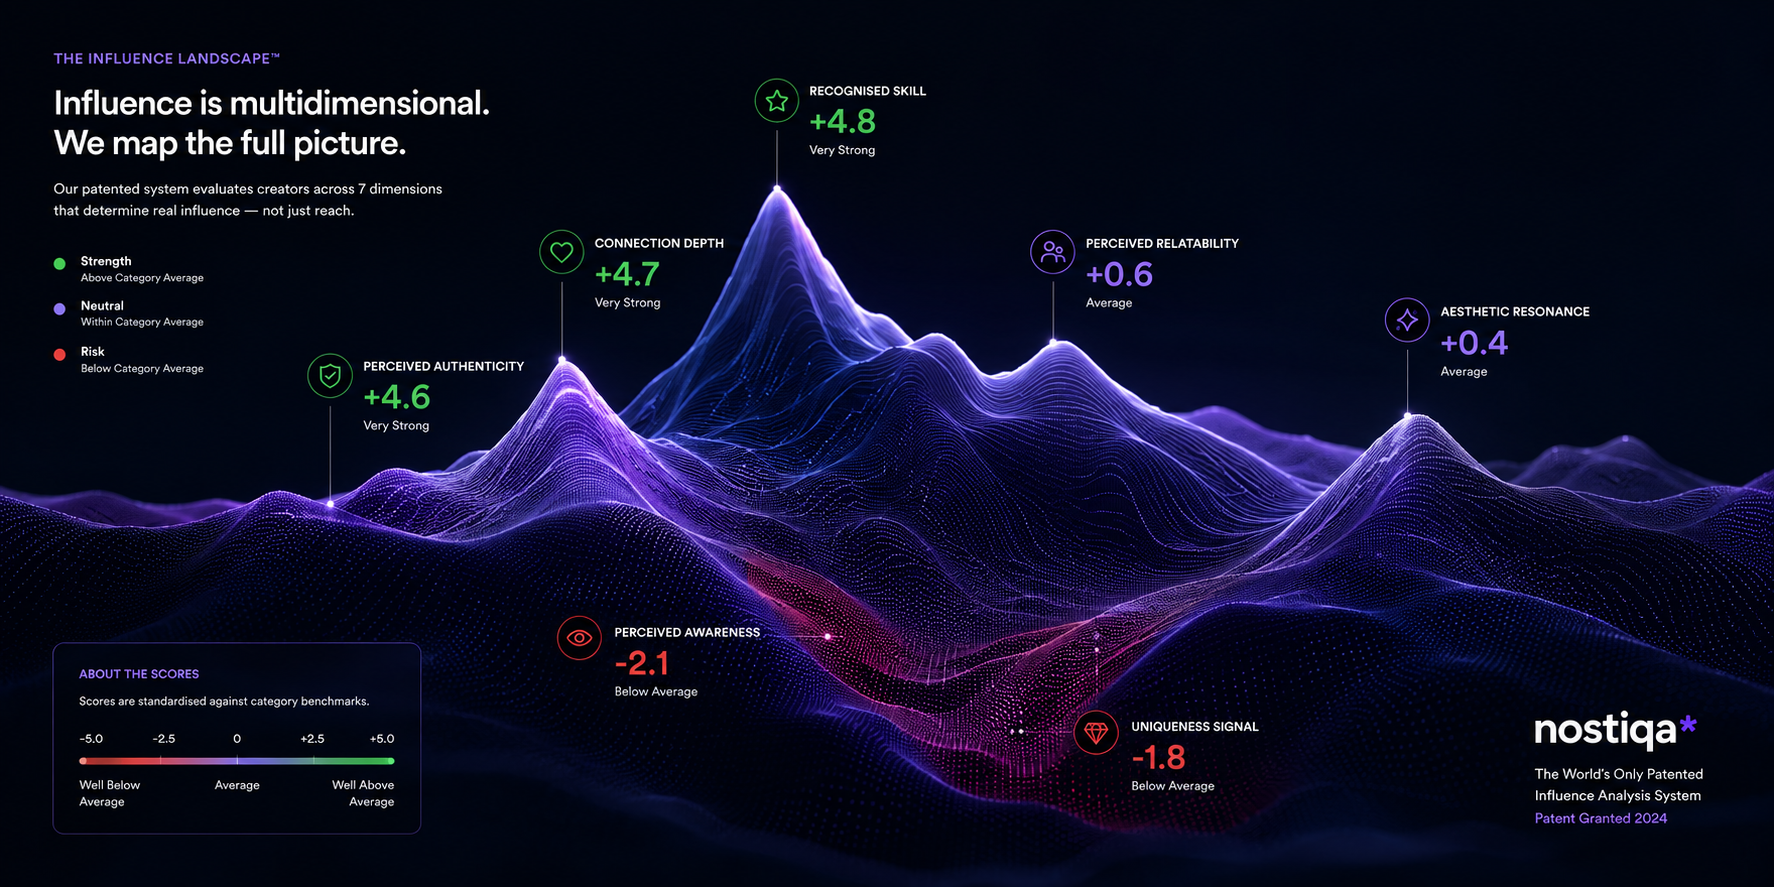
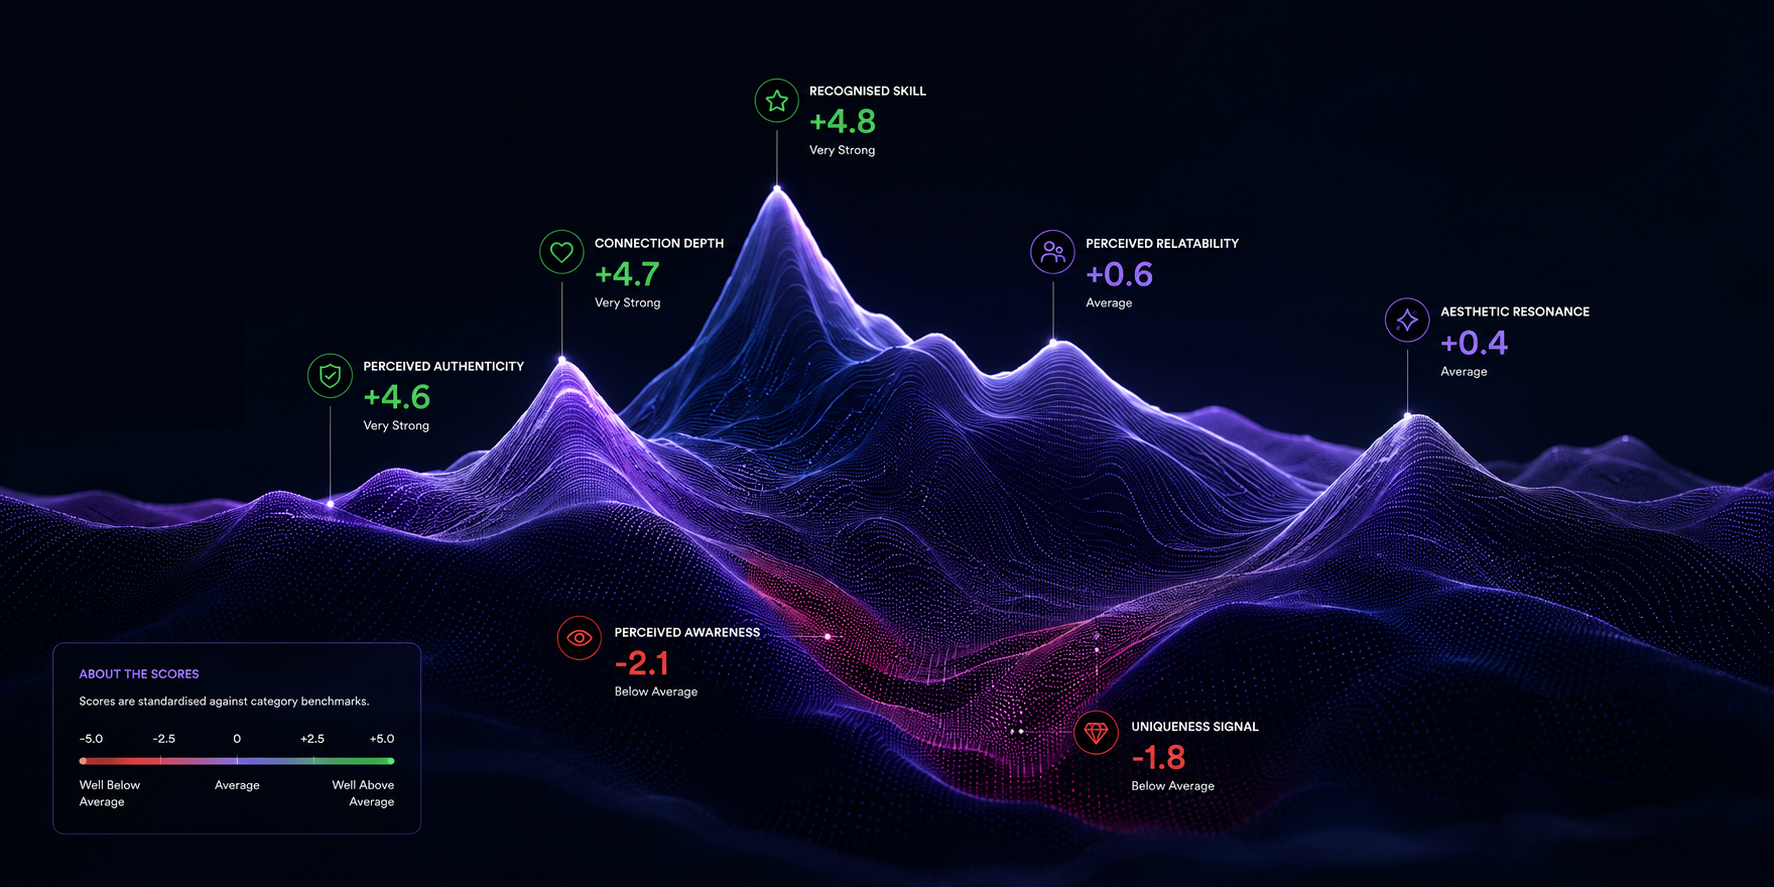
D

diff --git a/ranking-shortlist.html b/ranking-shortlist.html
@@ -130,7 +130,7 @@
          </div>
       </div>
       <div class="container mx-auto px-4 lg:px-8 grid grid-cols-1 lg:grid-cols-4 gap-6 items-center">
-         <div class="w-full h-full justify-around flex flex-col gap-3">
+         <div class="w-full h-full justify-start flex flex-col gap-4 sm:gap-6">
             <h5 class="font-body text-sm sm:text-base font-semibold uppercase tracking-[0.10em] text-primary mb-0">What's Included</h5>
             <ul class="space-y-2.5">
                <li class="flex items-center gap-1.5"><i data-lucide="badge-check" class="size-5 text-primary"></i> <span>Ranked Creator Shortlist</span></li>
@@ -265,12 +265,12 @@
       </div>
       <div class="container mx-auto px-4 lg:px-8">
          <div class="grid grid-cols-1 xl:grid-cols-12 gap-8 rounded-3xl border border-gray/10 bg-gray/10 p-6 lg:p-8">
-            <div class="xl:col-span-7 flex flex-col justify-around gap-4">
+            <div class="xl:col-span-7 flex flex-col justify-start gap-6">
                <div>
-                  <h5 class="font-body text-sm sm:text-base font-semibold uppercase tracking-[0.10em] text-primary mb-0">Apply For Pilot Access</h5>
+                  <h5 class="font-body text-sm sm:text-base font-semibold uppercase tracking-[0.10em] text-primary mb-3">Apply For Pilot Access</h5>
                   <h3 class="text-2xl lg:text-3xl font-bold text-dark leading-tight">Start your shortlist. <span class="inline sm:block">Make better decisions.</span></h3>
                </div>
-               <ul class="mt-8 flex flex-col gap-3">
+               <ul class="flex flex-col gap-3">
                   <li class="flex items-center gap-2">
                      <i data-lucide="gift" class="size-5 text-primary"></i> <span>First report complimentary</span>
                   </li>
@@ -288,8 +288,8 @@
             <div class="xl:col-span-5">
                <div class="sticky top-6 flex h-full flex-col overflow-hidden rounded-3xl border border-violet-100 bg-gradient-to-br from-white via-violet-50/30 to-white p-6 shadow-[0_20px_60px_rgba(55,17,190,0.08)]">
                   <div class="absolute inset-x-0 top-0 h-1 bg-gradient-to-r from-primary via-secondary to-primary"></div>
-                  <p class="text-sm font-semibold uppercase tracking-wider text-primary">Creator Shortlist Report</p>
-                  <h3 class="my-2 text-2xl font-bold leading-tight text-dark">First report complimentary</h3>
+                  <p class="text-sm font-semibold uppercase tracking-wider text-primary mb-3">Creator Shortlist Report</p>
+                  <h3 class="my-2 text-xl font-bold leading-tight text-dark">First report complimentary</h3>
                   <p class="text-sm text-gray"> Then ₹4,999 for 30 days <span class="inline sm:block">(instead of ₹9,999)</span></p>
                   <!-- <div class="mt-3 space-y-2">
                      <div class="flex items-center gap-1.5 text-sm text-dark">
@@ -306,7 +306,7 @@
                      </div>
                   </div> -->
                   <div class="mt-auto pt-6">
-                     <a href="https://www.nostiqa.com/founding-partner-program" class="flex h-14 w-full items-center justify-center gap-2 rounded-xl bg-primary text-base font-semibold text-white transition-all duration-300 hover:-translate-y-1 hover:shadow-[0_12px_30px_rgba(55,17,190,0.25)]">Apply For Pilot <i data-lucide="arrow-right" class="size-5"></i></a>
+                     <a href="https://www.nostiqa.com/founding-partner-program" class="flex h-14 w-fit px-6 sm:px-6 lg:px-8 mx-auto items-center justify-center gap-2 rounded-xl bg-primary text-base font-semibold text-white transition-all duration-300 hover:-translate-y-1 hover:shadow-[0_12px_30px_rgba(55,17,190,0.25)]">Apply For Pilot <i data-lucide="arrow-right" class="size-5"></i></a>
                      <div class="mt-4 flex items-center justify-center gap-2 text-sm text-dark"><i data-lucide="lock" class="size-4 text-dark"></i> <span>Secure & confidential</span></div>
                   </div>
                </div>

diff --git a/founding-partner-program.html b/founding-partner-program.html
@@ -163,8 +163,8 @@
                   <thead>
                      <tr class="bg-gray/10">
                         <th class="w-1/3 px-2 sm:px-4 py-3 leading-tight text-left text-xs sm:text-sm font-semibold text-dark">Product</th>
-                        <th class="w-1/3 px-2 sm:px-4 py-3 leading-tight text-center text-xs sm:text-sm font-semibold text-dark">Standard Price</th>
-                        <th class="w-1/3 px-2 sm:px-4 py-3 leading-tight text-center text-xs sm:text-sm font-semibold text-dark">Pilot Price <span class="text-[8px] leading-tight text-dark/60">(30 Days)</span></th>
+                        <th class="w-1/3 px-2 sm:px-4 py-3 leading-tight text-center text-xs sm:text-sm font-semibold text-dark">Standard</th>
+                        <th class="w-1/3 px-2 sm:px-4 py-3 leading-tight text-center text-xs sm:text-sm font-semibold text-dark">Pilot <span class="text-[8px] leading-tight text-dark/60">(30 Days)</span></th>
                      </tr>
                   </thead>
                   <tbody class="divide-y divide-gray/10">
@@ -406,8 +406,8 @@
          <div class="grid grid-cols-1 xl:grid-cols-12 gap-8 rounded-3xl border border-gray/10 bg-gray/10 p-6 lg:p-8">
             <div class="xl:col-span-3 flex flex-col justify-start gap-6">
                <h5 class="font-body text-sm sm:text-base font-semibold uppercase tracking-[0.10em] text-primary mb-0">APPLY FOR FOUNDING PARTNER ACCESS</h5>
-               <h3 class="text-2xl lg:text-3xl font-bold text-dark leading-tight">Tell us about your team and how you plan to use Nostiqa.</h3>
-               <p class="text-base text-gray leading-relaxed">Our team reviews every application and typically responds within 3–5 business days.</p>
+               <h3 class="text-2xl lg:text-2xl font-bold text-dark leading-tight">Tell us about your team and how you plan to use Nostiqa.</h3>
+               <p class="text-sm text-gray leading-relaxed">Our team reviews every application and typically responds within 3–5 business days.</p>
             </div>
             <div class="xl:col-span-6">
                <div class="grid grid-cols-1 sm:grid-cols-2 xl:grid-cols-3 gap-3">
@@ -480,10 +480,12 @@
                </div>
             </div>
             <div class="xl:col-span-3">
-               <div class="flex h-full flex-col overflow-hidden rounded-3xl border border-violet-100 bg-gradient-to-br from-white via-violet-50/30 to-white p-6 shadow-[0_20px_60px_rgba(55,17,190,0.08)]">
+               <div class="flex h-fit flex-col gap-8 sm:gap-12 overflow-hidden rounded-3xl border border-violet-100 bg-gradient-to-br from-white via-violet-50/30 to-white p-6 shadow-[0_20px_60px_rgba(55,17,190,0.08)]">
                   <!-- <div class="absolute inset-x-0 top-0 h-1 bg-gradient-to-r from-primary via-secondary to-primary"></div> -->
-                  <h3 class="my-2 text-2xl font-bold leading-tight text-dark">Limited access. <span class="inline sm:block">High impact.</span></h3>
+                 <div class="flex flex-col gap-3">
+                   <h3 class="my-2 text-2xl font-bold leading-tight text-dark">Limited access. <span class="inline sm:block">High impact.</span></h3>
                   <p class="text-sm text-gray"> We work closely with a small group of partners to build what matters.</p>
+                 </div>
                   <div class="flex flex-1 items-center justify-center">
                      <div class="w-full">
                         <a href="javascript:void(0)" class="flex w-full items-center justify-center gap-2 rounded-xl bg-primary px-6 py-3 text-center text-sm lg:text-base font-semibold text-white transition-all duration-300 hover:-translate-y-1 hover:shadow-lg"> Apply for Access<i data-lucide="arrow-right" class="size-5 shrink-0"></i></a>

diff --git a/index.html b/index.html
@@ -98,13 +98,13 @@
                                  <h3 class="text-md 2lg:text-lg font-semibold text-white">Launch Premium Skincare</h3>
                               </div>
                               <div class="flex flex-col gap-0 2lg:gap-1.5 text-start">
-                                 <p class="text-xs font-font-medium text-white">OBJECTIVE</p>
+                                 <p class="text-xs font-font-medium text-white ms-0 sm:ms-5">OBJECTIVE</p>
                                  <h3 class="text-md 2lg:text-lg font-semibold text-white flex items-center gap-1.5"><i data-lucide="goal" class="h-5 w-5 text-white"></i> Drive Purchase Intent</h3>
                               </div>
                         </div>
                      </div>
                   </div>
-                  <div class="relative md:absolute md:inset-x-0 md:bottom-6 xl:bottom-8 2xl:bottom-24 px-4 sm:px-6 lg:px-8 xl:px-14">
+                  <div class="relative md:absolute md:inset-x-0 md:bottom-6 xl:bottom-8 2xl:bottom-30 px-4 sm:px-6 lg:px-8 xl:px-14">
                      <div class="swiper hmcardsSwiper">
                         <div class="swiper-wrapper items-stretch">
                         <div class="swiper-slide !h-auto flex">

diff --git a/assets/css/tailwind.css b/assets/css/tailwind.css
@@ -949,6 +949,10 @@ video {
   margin-top: auto;
 }
 
+.ms-0{
+  margin-inline-start: 0px;
+}
+
 .line-clamp-2{
   overflow: hidden;
   display: -webkit-box;
@@ -1171,6 +1175,11 @@ video {
 
 .h-px{
   height: 1px;
+}
+
+.h-fit{
+  height: -moz-fit-content;
+  height: fit-content;
 }
 
 .max-h-40{
@@ -4188,6 +4197,10 @@ select::-ms-expand {
     margin-top: 0.25rem;
   }
 
+  .sm\:ms-5{
+    margin-inline-start: 1.25rem;
+  }
+
   .sm\:block{
     display: block;
   }
@@ -4367,6 +4380,14 @@ select::-ms-expand {
     gap: 1.5rem;
   }
 
+  .sm\:gap-12{
+    gap: 3rem;
+  }
+
+  .sm\:gap-10{
+    gap: 2.5rem;
+  }
+
   .sm\:gap-y-10{
     row-gap: 2.5rem;
   }
@@ -4440,6 +4461,11 @@ select::-ms-expand {
   .sm\:py-5{
     padding-top: 1.25rem;
     padding-bottom: 1.25rem;
+  }
+
+  .sm\:px-8{
+    padding-left: 2rem;
+    padding-right: 2rem;
   }
 
   .sm\:text-center{
@@ -4592,6 +4618,11 @@ select::-ms-expand {
 
   .md\:p-8{
     padding: 2rem;
+  }
+
+  .md\:px-8{
+    padding-left: 2rem;
+    padding-right: 2rem;
   }
 
   .md\:pl-6{
@@ -4919,6 +4950,11 @@ select::-ms-expand {
   .lg\:text-xl{
     font-size: 1.25rem;
     line-height: 1.75rem;
+  }
+
+  .lg\:text-2xl{
+    font-size: 1.5rem;
+    line-height: 2rem;
   }
 }
 

diff --git a/deep-dive.html b/deep-dive.html
@@ -100,7 +100,7 @@
             <div class="lg:col-span-6 flex flex-col gap-3">
                <p class="section-label text-center mb-2 text-white/80">Influence Landscape™ Preview</p>
                <div class="aspect-video rounded-2xl overflow-hidden border border-primary shadow-premium">
-                  <img src="assets/images/mountainimg.png" alt="Product Hero Image" class="rounded-2xl w-full h-full object-cover"/>
+                  <img src="assets/images/pricingcardimg2.png" alt="Product Hero Image" class="rounded-2xl w-full h-full object-cover"/>
                </div>
                 <div class="flex flex-wrap gap-x-4 gap-y-2 items-center justify-center">
                   <span class="flex items-center gap-1 text-xs text-white/80"><i data-lucide="mountain" class="w-3 h-3 text-green-400"></i> Peak (Strength)</span>

diff --git a/face-off.html b/face-off.html
@@ -259,7 +259,7 @@
       <div class="container mx-auto px-4 lg:px-8">
          <div class="grid grid-cols-1 xl:grid-cols-12 gap-8 rounded-3xl border border-gray/10 bg-gray/10 p-6 lg:p-8">
             <div class="xl:col-span-3 flex flex-col justify-around gap-4">
-               <div>
+               <div class="flex flex-col gap-3">
                   <h3 class="text-2xl lg:text-4xl font-bold text-dark leading-tight">Start your comparison</h3>
                   <p class="text-sm leading-6 text-dark">Complete the details below to generate your Face-Off report.</p>
                </div>
